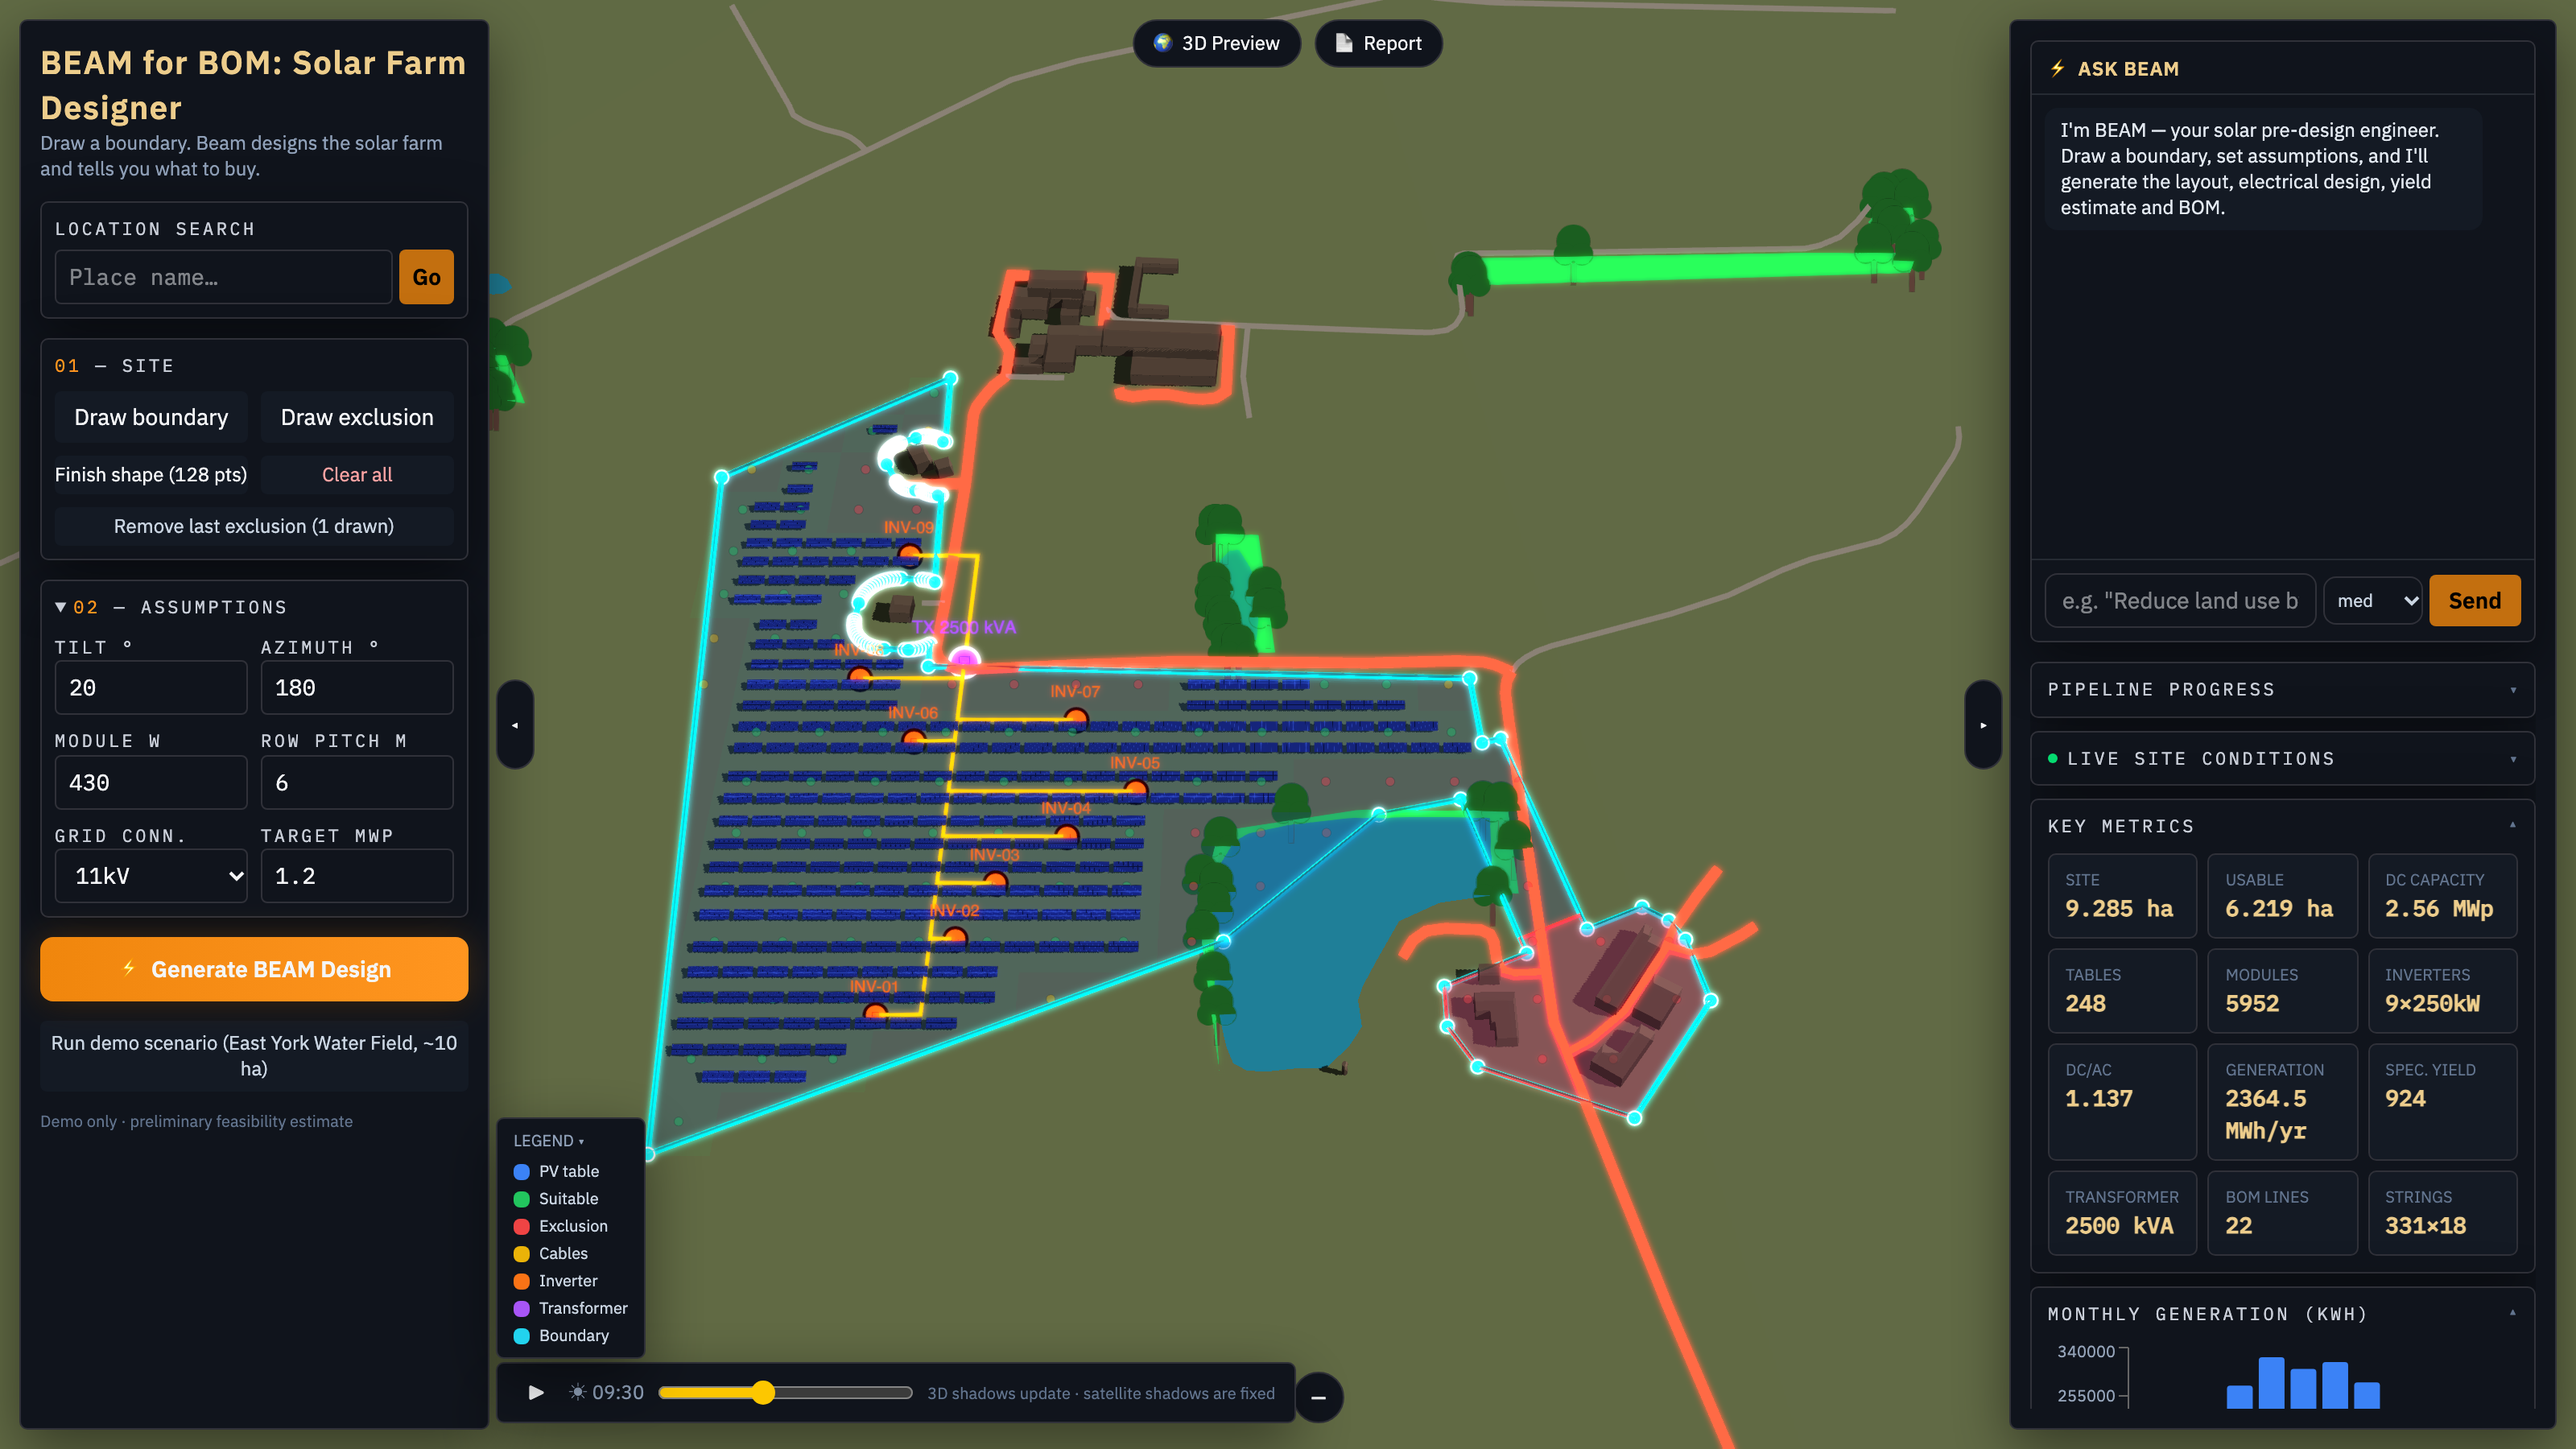
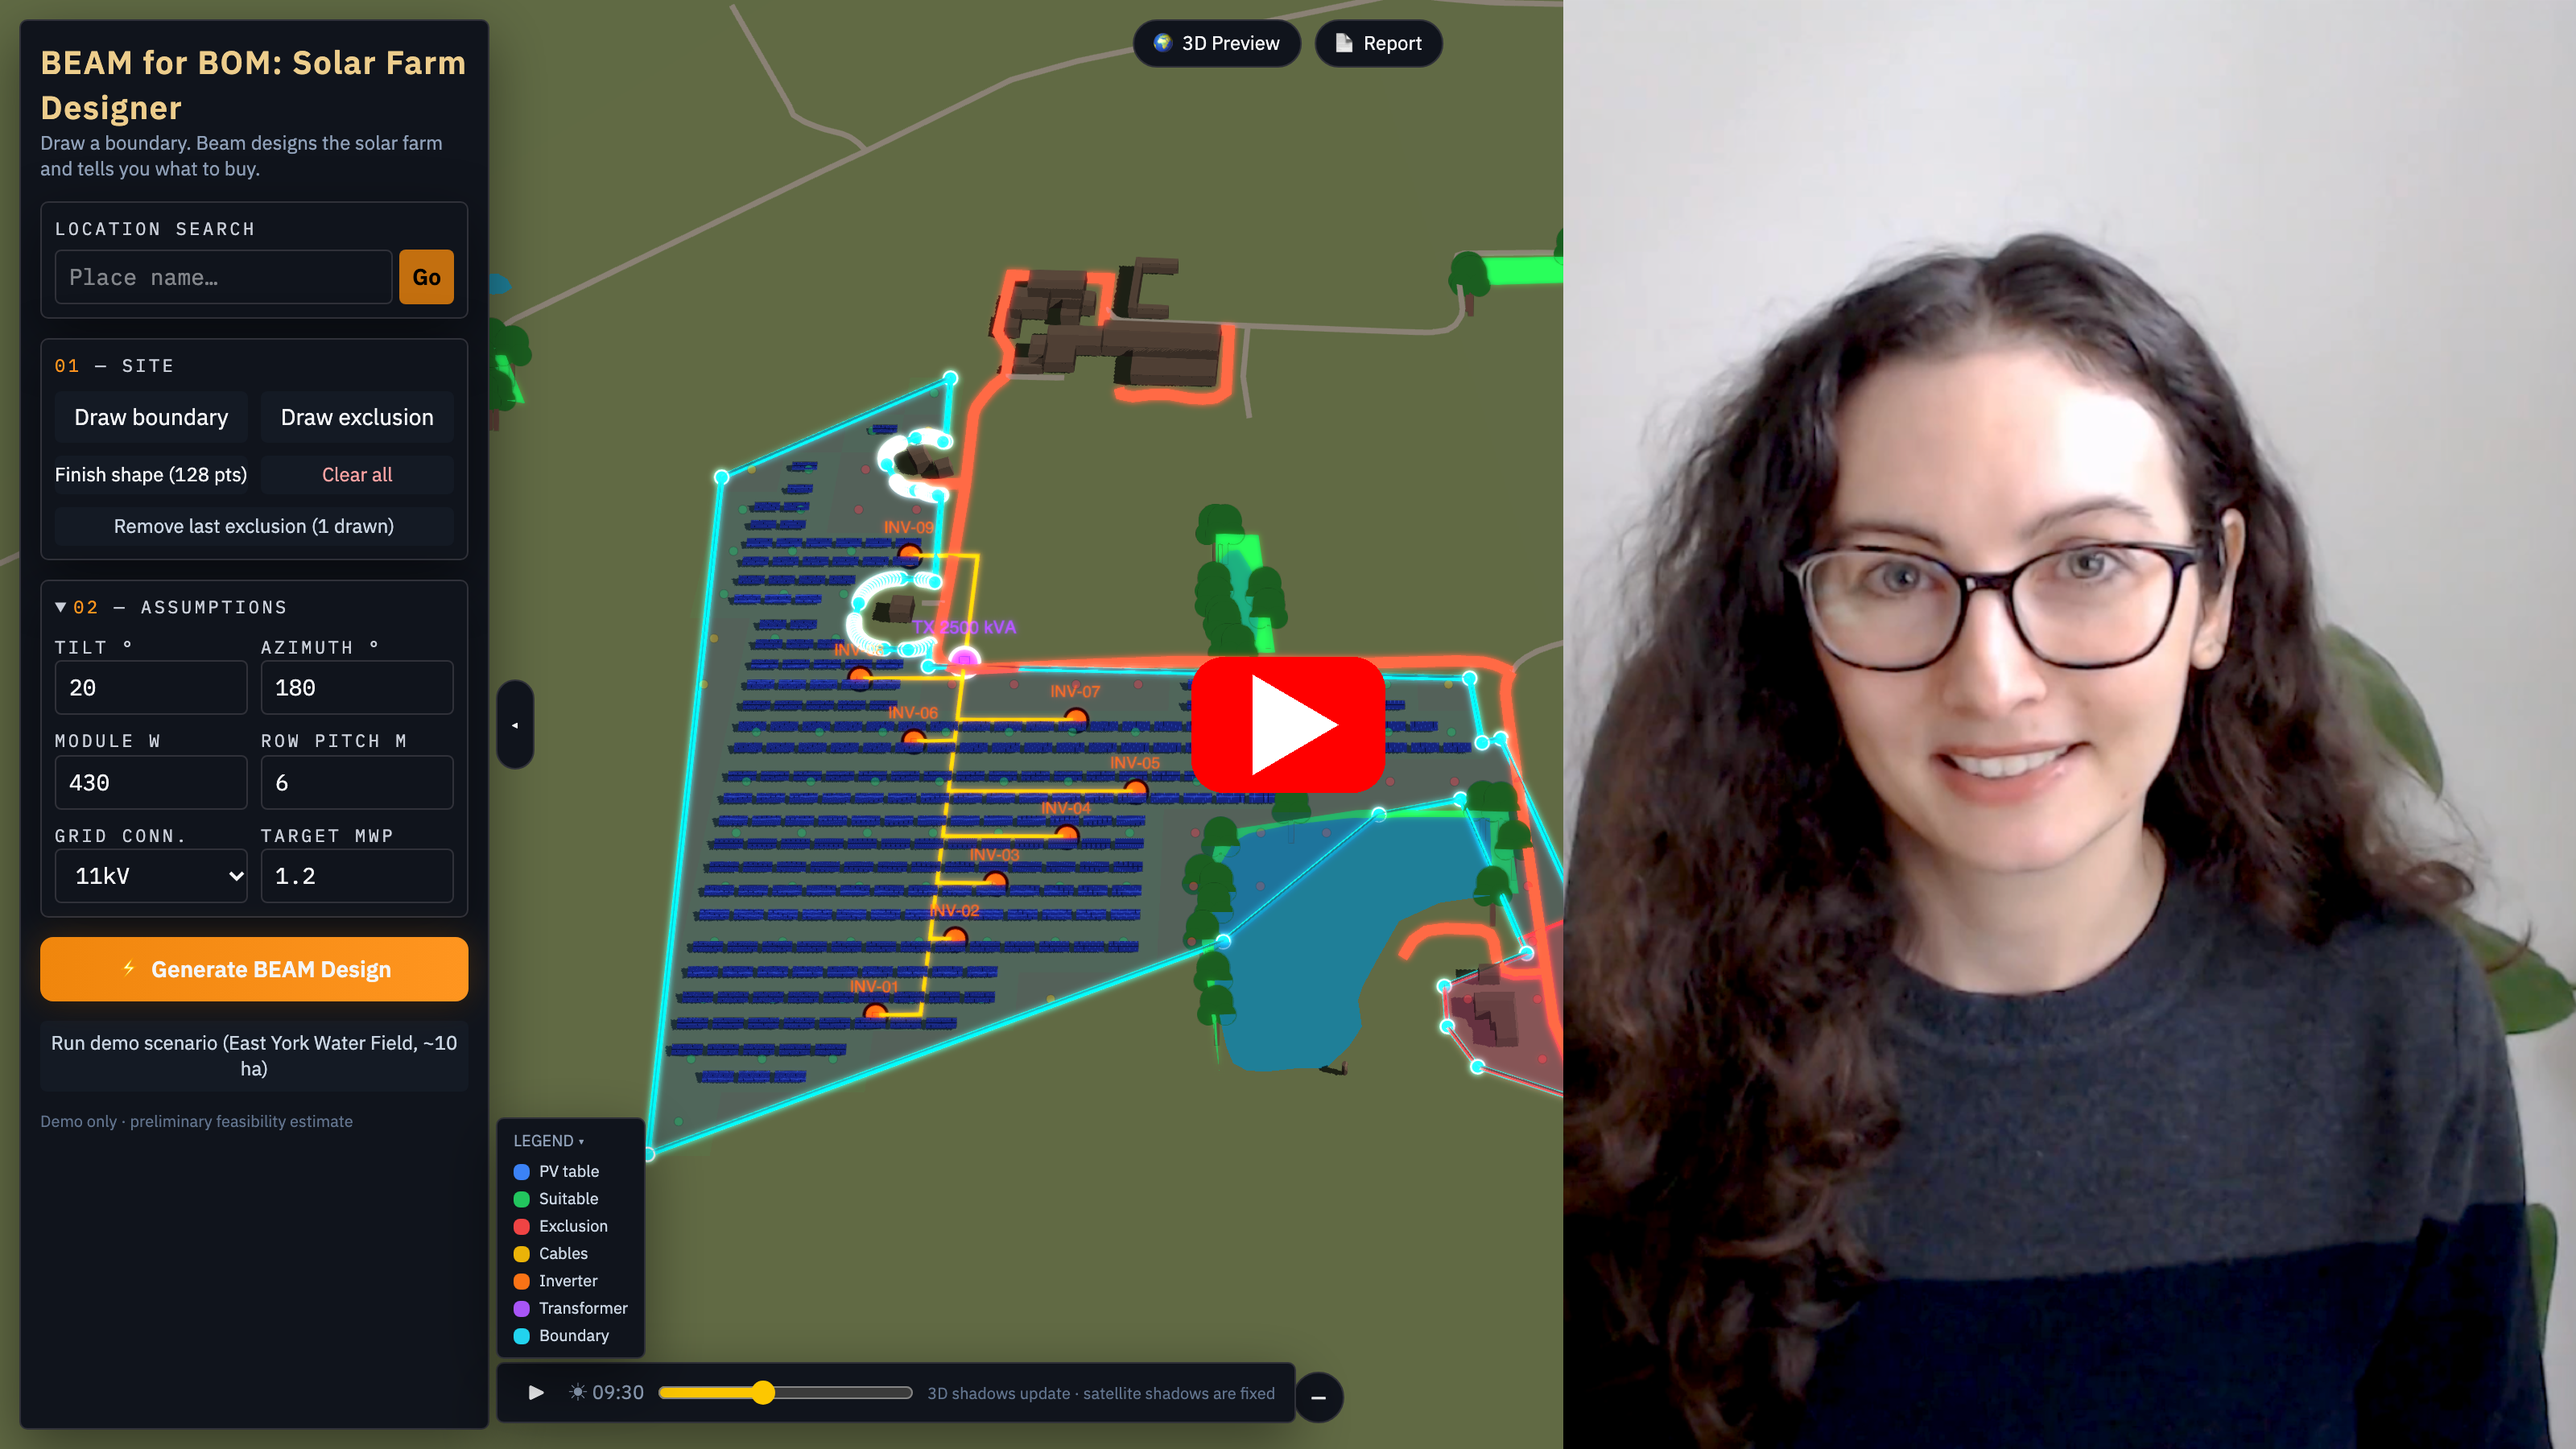
Add demo video thumbnail and YouTube link
Composite thumbnail (app UI + presenter, play badge) linking to the
unlisted YouTube cut.

Generated with [Devin](https://devin.ai)

diff --git a/README.md b/README.md
@@ -16,7 +16,7 @@ study and a walkable first-person mode, and a conversational layer
 ("Ask Beam") lets you re-plan the site in plain language while you
 watch it reason.
 
-[![Video](docs/video-thumbnail.png)](VIDEO_URL)
+[![Video](docs/video-thumbnail.png)](https://youtu.be/lEAzKxl7fv4)
 
 ## Repository
 
